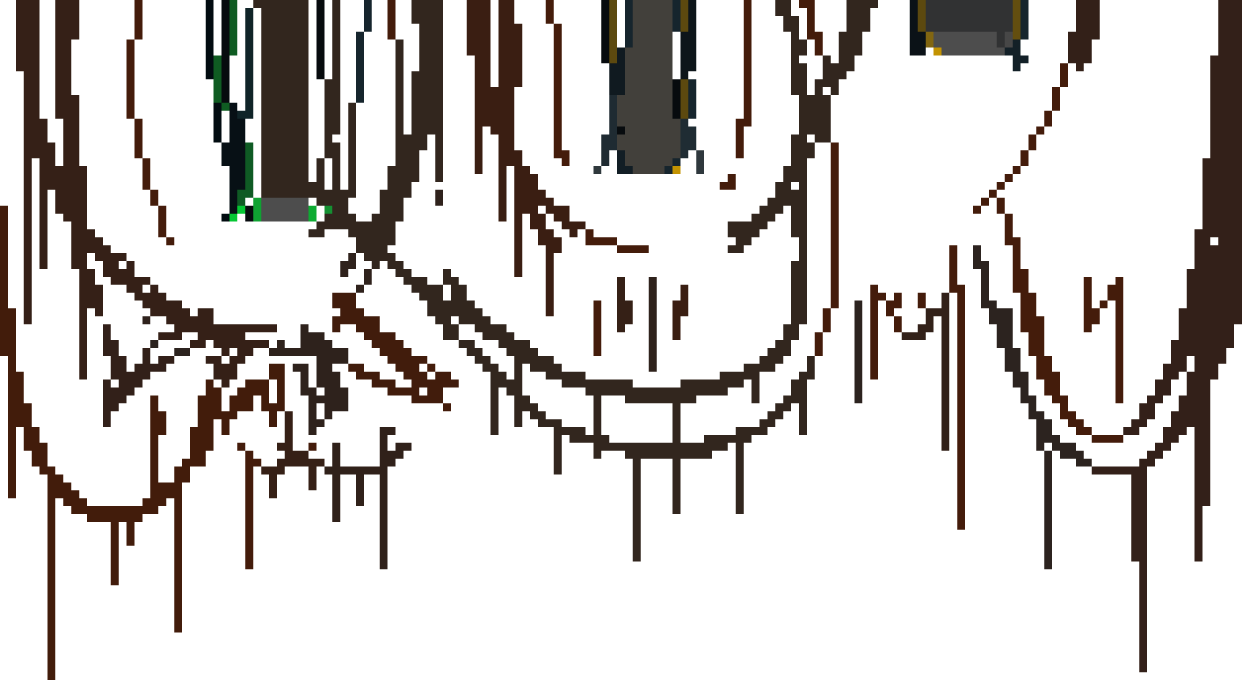
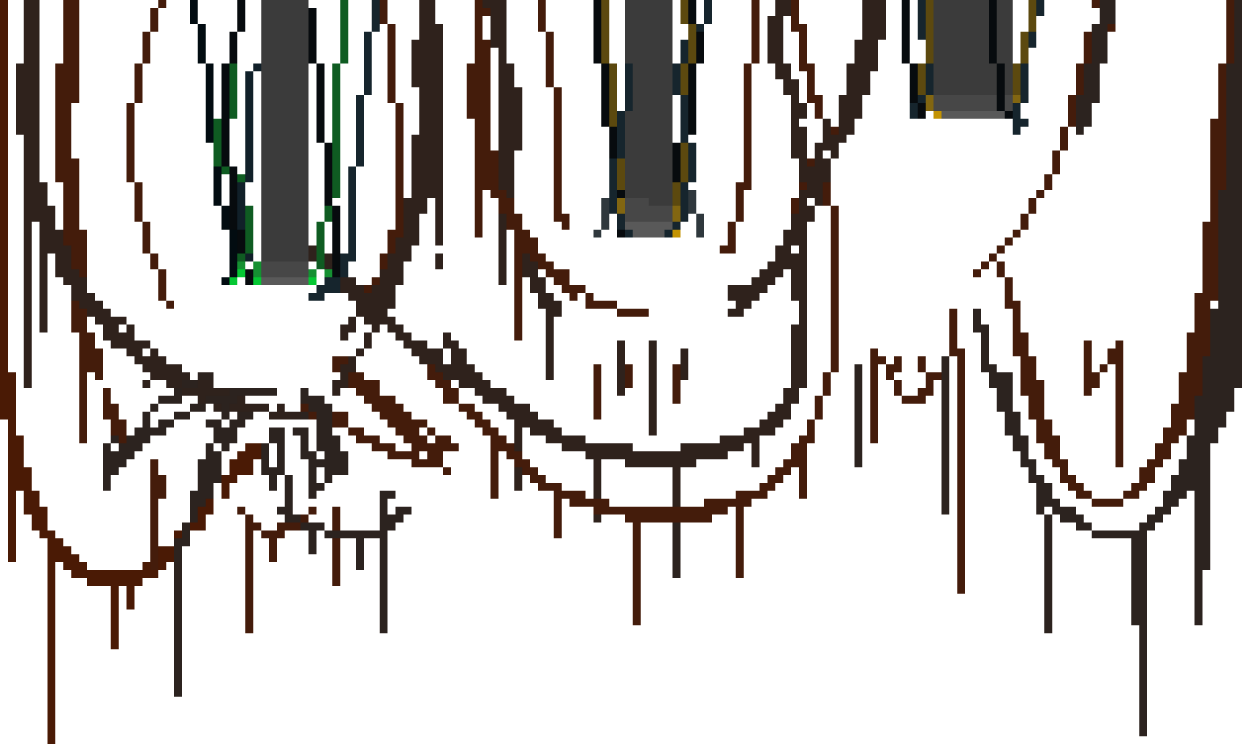
Changed character info resources to resized images in CharacterInfo CharacterInfo View is WIP

diff --git a/UP/Views/FullView/CharacterInfoView.swift b/UP/Views/FullView/CharacterInfoView.swift
@@ -9,6 +9,7 @@
 import Foundation
 import UIKit
 import GameKit
+import Gifu
 
 class CharacterInfoView:UIViewController {
 	
@@ -19,9 +20,7 @@ class CharacterInfoView:UIViewController {
 	var cExpWrapper:UIImageView = UIImageView()
 	var cExpMaskView:UIView = UIView() //Exp 내용물 마스크 처리를 위함
 	var cExpProgress:UIView = UIView()
-	var cExpProgressImageView:UIImageView = UIImageView()
-	
-	var cExpProgressAnimationImages:[UIImage] = []
+	var cExpProgressAnimation:GIFImageView = GIFImageView()
 	
 	//////// 위쪽 백그라운드
 	var cTopBackgroundView:UIImageView = UIImageView()
@@ -103,7 +102,7 @@ class CharacterInfoView:UIViewController {
 		
 		//// draw top background
 		cTopBackgroundView.image = UIImage( named: "characterinfo-background.png" )
-		cTopBackgroundView.frame = CGRect( x: DeviceManager.scrSize!.width / 2 - (414 * DeviceManager.maxScrRatioC) / 2, y: 0, width: 414 * DeviceManager.maxScrRatioC, height: 226.8 * DeviceManager.maxScrRatioC )
+		cTopBackgroundView.frame = CGRect( x: DeviceManager.scrSize!.width / 2 - (414 * DeviceManager.maxScrRatioC) / 2, y: 0, width: 414 * DeviceManager.maxScrRatioC, height: 247.85 * DeviceManager.maxScrRatioC )
 		self.view.addSubview(cTopBackgroundView)
 		
 		/////////////// Draw battery, level and indicator
@@ -114,15 +113,15 @@ class CharacterInfoView:UIViewController {
 		/// Mask for Exp
 		cExpMaskView.backgroundColor = UIColor.clear
 		
-		cLevelWrapper.frame = CGRect( x: cTopBackgroundView.frame.maxX - 38 * DeviceManager.maxScrRatioC - 105.65 * DeviceManager.maxScrRatioC,
-		                                 y: 21 * DeviceManager.maxScrRatioC
-			, width: 105.65 * DeviceManager.maxScrRatioC, height: 63.65 * DeviceManager.maxScrRatioC)
-		cLevelIndicator.frame = CGRect( x: cLevelWrapper.frame.minX - 27 * DeviceManager.maxScrRatioC - 43.85 * DeviceManager.maxScrRatioC,
-		                                   y: 54 * DeviceManager.maxScrRatioC
-			, width: 43.85 * DeviceManager.maxScrRatioC, height: 33.9 * DeviceManager.maxScrRatioC)
-		cExpWrapper.frame = CGRect( x: cTopBackgroundView.frame.minX + 48 * DeviceManager.maxScrRatioC,
-		                               y: 75 * DeviceManager.maxScrRatioC
-			,width: 93.7 * DeviceManager.maxScrRatioC, height: 55.8 * DeviceManager.maxScrRatioC)
+		cLevelWrapper.frame = CGRect( x: cTopBackgroundView.frame.maxX - 21 * DeviceManager.maxScrRatioC - 139.8 * DeviceManager.maxScrRatioC,
+		                                 y: 40.5 * DeviceManager.maxScrRatioC
+			, width: 139.8 * DeviceManager.maxScrRatioC, height: 84.35 * DeviceManager.maxScrRatioC)
+		cLevelIndicator.frame = CGRect( x: cLevelWrapper.frame.minX - 10 * DeviceManager.maxScrRatioC - 58.05 * DeviceManager.maxScrRatioC,
+		                                   y: 79 * DeviceManager.maxScrRatioC
+			, width: 58.05 * DeviceManager.maxScrRatioC, height: 44.8 * DeviceManager.maxScrRatioC)
+		cExpWrapper.frame = CGRect( x: cTopBackgroundView.frame.minX + 34 * DeviceManager.maxScrRatioC,
+		                               y: 95.5 * DeviceManager.maxScrRatioC
+			,width: 123.95 * DeviceManager.maxScrRatioC, height: 73.85 * DeviceManager.maxScrRatioC)
 		
 		self.view.addSubview(cLevelWrapper)
 		self.view.addSubview(cLevelIndicator)
